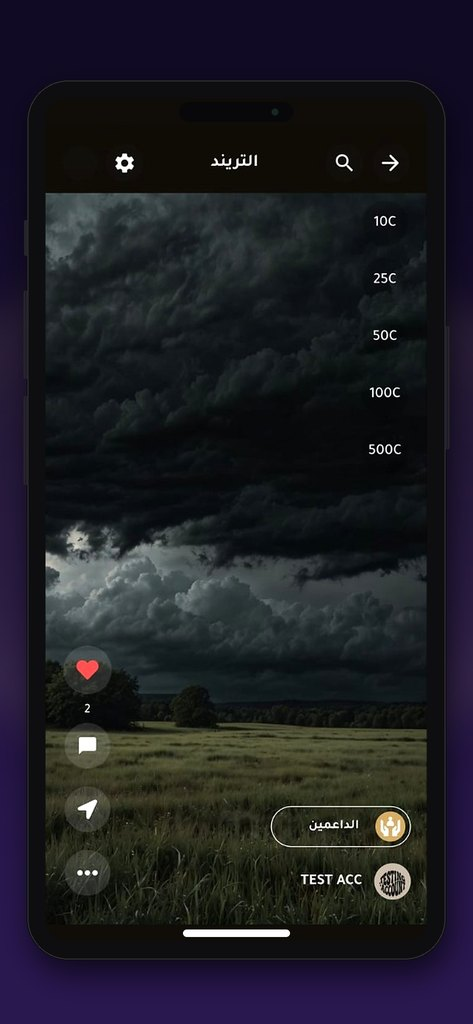
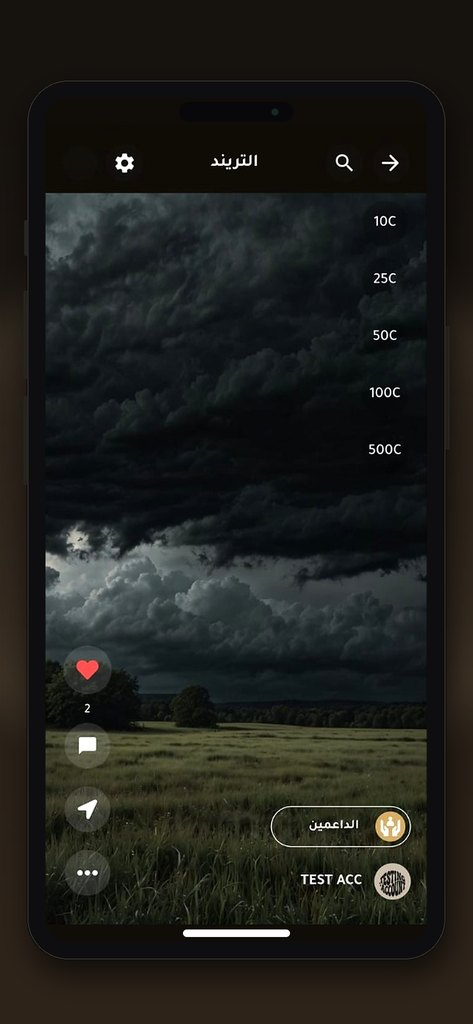
Match Timey mockups to the app: warm charcoal and gold, not purple.

Changed region(s): [[0.0, 0.3438, 1.0, 1.0], [0.0, 0.1562, 0.0296, 0.3125], [0.9767, 0.2188, 1.0, 0.2812]]

diff --git a/index.html b/index.html
@@ -1054,7 +1054,7 @@
         { src:"assets/warsha-8-splash.png",     label:"Splash & branding" },
       ],
       glyph:'<rect x="4" y="10" width="16" height="6" rx="2" fill="white"/><circle cx="8" cy="18" r="1.6" fill="white"/><circle cx="16" cy="18" r="1.6" fill="white"/>' },
-    { name:"Timey", roles:"Client project", pc1:"#1a1033", pc2:"#2a1850",
+    { name:"Timey", roles:"Client project", pc1:"#16120e", pc2:"#2e241a",
       stat:"Social · creator booking · ads",
       desc:"A client's social platform — stories, real-time chat on Pusher, and an in-app camera, plus paid video sessions with creators and a self-serve ads flow. Split work across a 3-developer Flutter team and held final say on technical decisions, including client trade-offs such as AR-filter vendor options when the existing SDK became a cost issue.",
       tags:["Pusher chat","Agora","In-app camera","Ads"],
